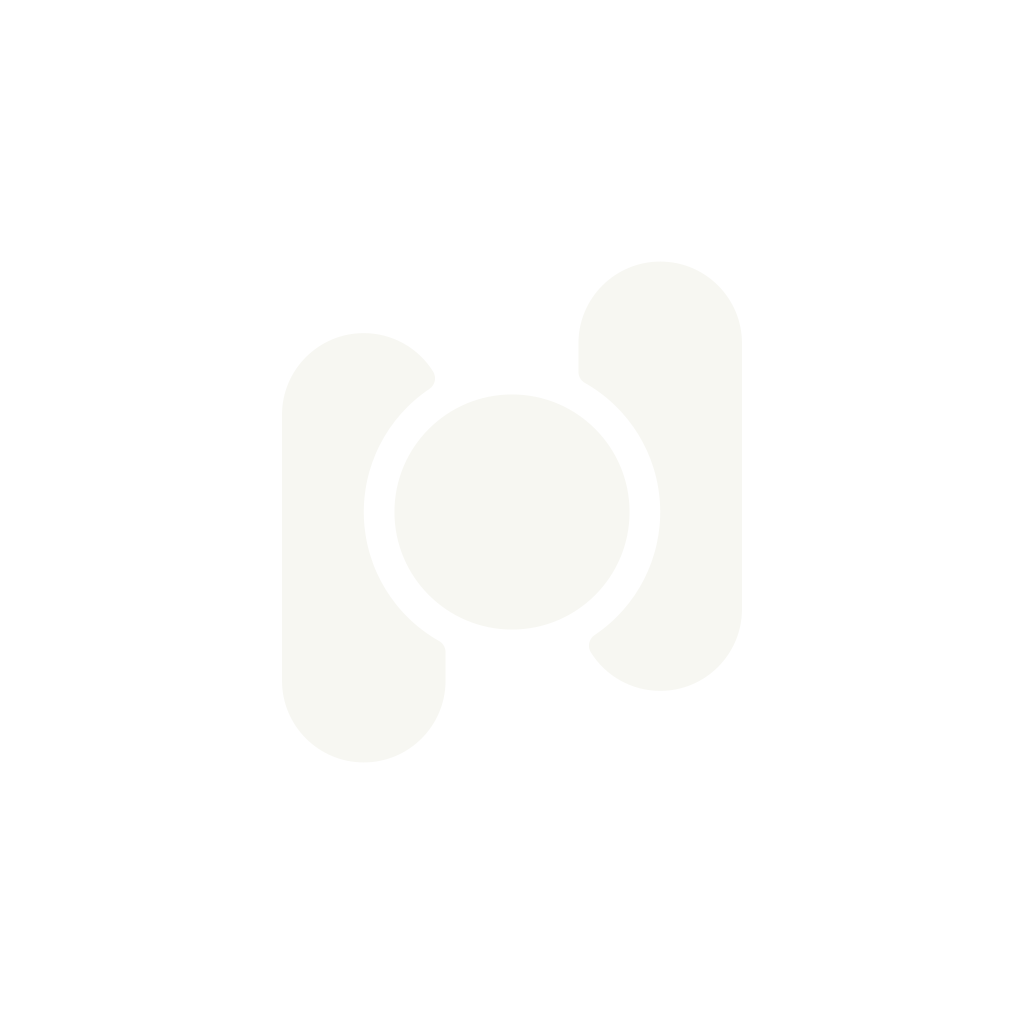
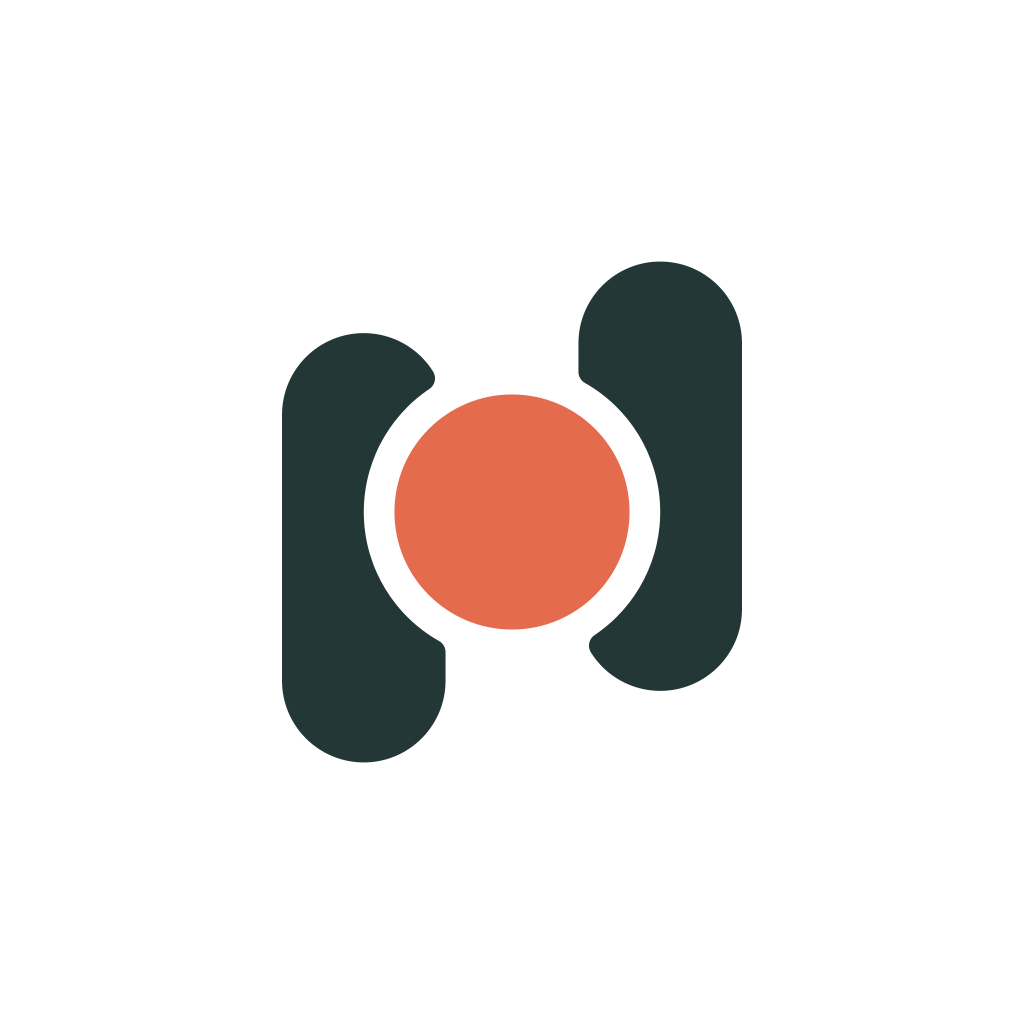
feat(brand): ink mark with a coral sun on a paper tile
scripts/logo.ts now fills the bars and the sun separately, so the tile
is paper, the bars ink and the sun coral. logo.svg keeps currentColor
for the bars and takes the sun from var(--sun), like the icon set.
Every desktop, site and mobile icon is regenerated from the script.

Changed region(s): [[0.25, 0.25, 0.75, 0.75]]

diff --git a/scripts/logo.ts b/scripts/logo.ts
@@ -37,7 +37,7 @@ const toward = (from: Point, to: Point, r: number): Point => {
   return { x: from.x + ((to.x - from.x) * r) / d, y: from.y + ((to.y - from.y) * r) / d }
 }
 
-function unfilledMark() {
+function mark(barFill: string, sunFill: string) {
   const { fillet, sun } = shapeOn256Grid
   const innerEdge = center - shapeOn256Grid.gap / 2
   const bottom = top + shapeOn256Grid.barHeight
@@ -78,14 +78,14 @@ function unfilledMark() {
         return `L${round2(p.x)} ${round2(p.y)}`
       })
       .join("") + "Z"
-  return `<path d="${path(leftBar)}${path(rightBar)}"/><circle cx="${center}" cy="${center}" r="${sun}"/>`
+  return `<path fill="${barFill}" d="${path(leftBar)}${path(rightBar)}"/><circle fill="${sunFill}" cx="${center}" cy="${center}" r="${sun}"/>`
 }
 
-const paperMarkOnCoralTile = (markTransform = "translate(36 36) scale(0.71875)", extra = "") =>
+const inkMarkOnPaperTile = (markTransform = "translate(36 36) scale(0.71875)", extra = "") =>
   [
     `<svg xmlns="http://www.w3.org/2000/svg" viewBox="0 0 256 256">`,
-    `  <rect width="256" height="256" rx="56" fill="${palette.coral}"/>`,
-    `  <g fill="${palette.paper}" transform="${markTransform}">${unfilledMark()}</g>`,
+    `  <rect width="256" height="256" rx="56" fill="${palette.paper}"/>`,
+    `  <g transform="${markTransform}">${mark(palette.ink, palette.coral)}</g>`,
     ...(extra ? [extra] : []),
     `</svg>`,
     ``,
@@ -99,12 +99,12 @@ const devBandBelowLiftedMark = [
 const macTile = 824
 const macCanvas = 1024
 const viewBox = [leftEdge, rightBarTop, 2 * (center - leftEdge), 2 * (center - rightBarTop)].join(" ")
-writeFileSync("assets/icon.svg", paperMarkOnCoralTile())
-writeFileSync("site/public/favicon.svg", paperMarkOnCoralTile())
-writeFileSync("assets/icon-dev.svg", paperMarkOnCoralTile("translate(36 20) scale(0.71875)", devBandBelowLiftedMark))
+writeFileSync("assets/icon.svg", inkMarkOnPaperTile())
+writeFileSync("site/public/favicon.svg", inkMarkOnPaperTile())
+writeFileSync("assets/icon-dev.svg", inkMarkOnPaperTile("translate(36 20) scale(0.71875)", devBandBelowLiftedMark))
 writeFileSync(
   "assets/logo.svg",
-  `<svg xmlns="http://www.w3.org/2000/svg" viewBox="${viewBox}" fill="currentColor">${unfilledMark()}</svg>\n`,
+  `<svg xmlns="http://www.w3.org/2000/svg" viewBox="${viewBox}">${mark("currentColor", "var(--sun, currentColor)")}</svg>\n`,
 )
 for (const name of ["icon", "icon-dev"]) {
   const png = execFileSync("rsvg-convert", ["-w", String(macTile), "-h", String(macTile), `assets/${name}.svg`])

diff --git a/DESIGN.md b/DESIGN.md
@@ -14,7 +14,7 @@ Developers who run several Claude Code and Codex agents at once across repositor
 - **Anti-references:** chat-app bubbles, gradient AI glow, sparkle icons, dashboard confetti, cards inside cards, and color used as decoration.
 - **Color:** a grayscale OKLCH base (shadcn neutral in `src/renderer/index.css`) with the accent violet `#7c3aed`. Use violet sparingly for focus, the primary action, and "agent is working". Status colors are semantic and stay consistent: amber means it needs you, emerald means it is running, red means failed or destructive. Pull these into tokens instead of scattering raw Tailwind palette classes.
 - **Type:** DM Sans Variable for UI, with Noto Sans TC or JP for Han and kana. Code and paths use Paper Mono by defaults. Sizes come from the Tailwind scale plus `text-2xs`, in rem so they follow the font size setting. Rely on weight and size for hierarchy before color.
-- **Mark:** `scripts/logo.ts` draws the logo and writes every icon from it, in the coral `#E56B4F`, teal `#167A79`, ink `#233737` and paper `#F7F7F2` palette that the Hina Light and Hina Dark themes use. Coral on paper is 3:1, so never set body text in coral.
+- **Mark:** `scripts/logo.ts` draws the logo and writes every icon from it: ink `#233737` bars and a coral `#E56B4F` sun on a paper `#F7F7F2` tile, the palette the Hina Light and Hina Dark themes use with teal `#167A79`. Coral on paper is 3:1, so never set body text in coral.
 - **Theme:** light and dark are equal citizens, and every UI change is checked in both. New profiles follow the system appearance. Don't add dark-only assumptions.
 - **Motion:** use the easings in `index.css` (`--ease-out` and the rest), keep it short (under 200 ms for UI feedback), and use the `pressable` utility for state transitions on clickable elements. Pressing does not scale anything. Every animation has a reduced-motion variant.
 
